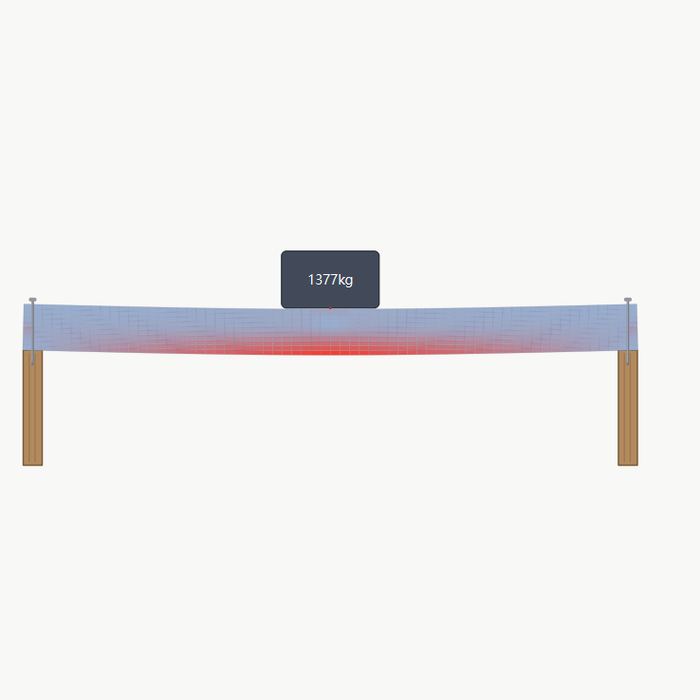
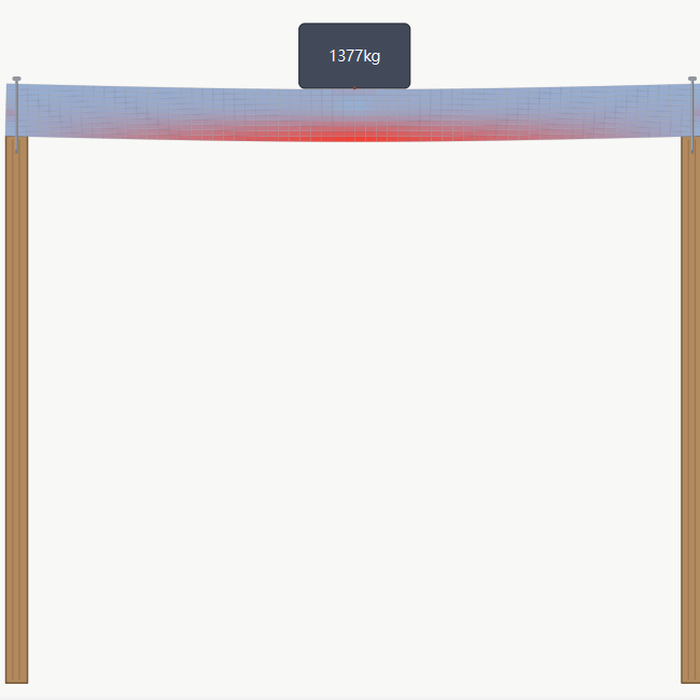
style(beam): full-height posts and a cover that fills the square
The posts now run from the beam down to the bottom of the canvas instead of a fixed 0.3 m, which both looks more like a trestle and gives the scene enough vertical extent to fill a square (before, a square crop of the wide beam left two thirds of the card empty). The cover was captured with the chart hidden so the canvas takes the full window height, then cropped to the posts' outer edges (650x650) with no panel or status-bar text in frame.

Changed region(s): [[0.0, 0.03, 1.0, 0.99]]

diff --git a/apps/Physics/Beam.py b/apps/Physics/Beam.py
@@ -402,7 +402,7 @@ class BeamCanvas(QWidget):
 
         # 木桩垫在梁端下方：桩的外缘与梁端平齐
         post_w = 16.0
-        ground_y = base_y + (sim.h * 0.5 + 0.30) * scale_x
+        ground_y = hh - 10.0        # 木桩一直延伸到画布底部
         post_x = []
         for node, side in ((sim.left_node, +1), (sim.right_node, -1)):
             ex = margin_x + float(pos[node, 0]) * scale_x      # 梁端位置
